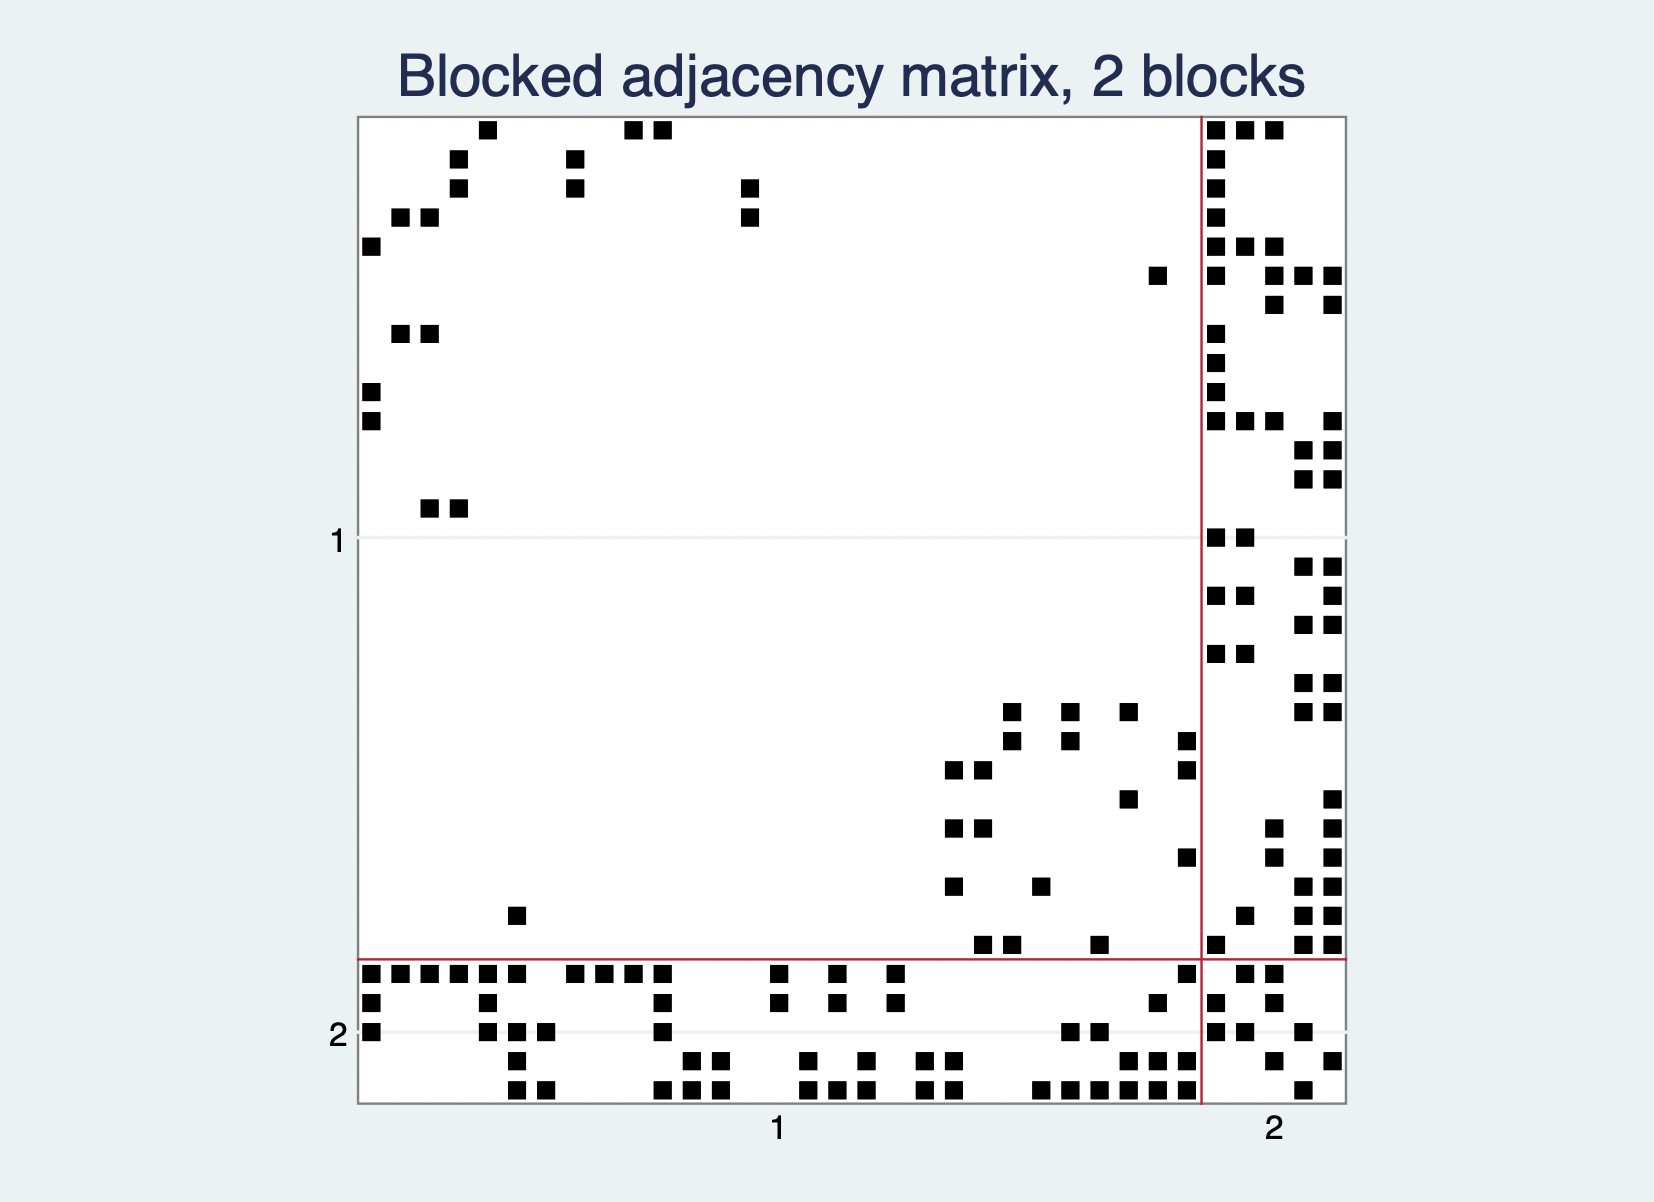
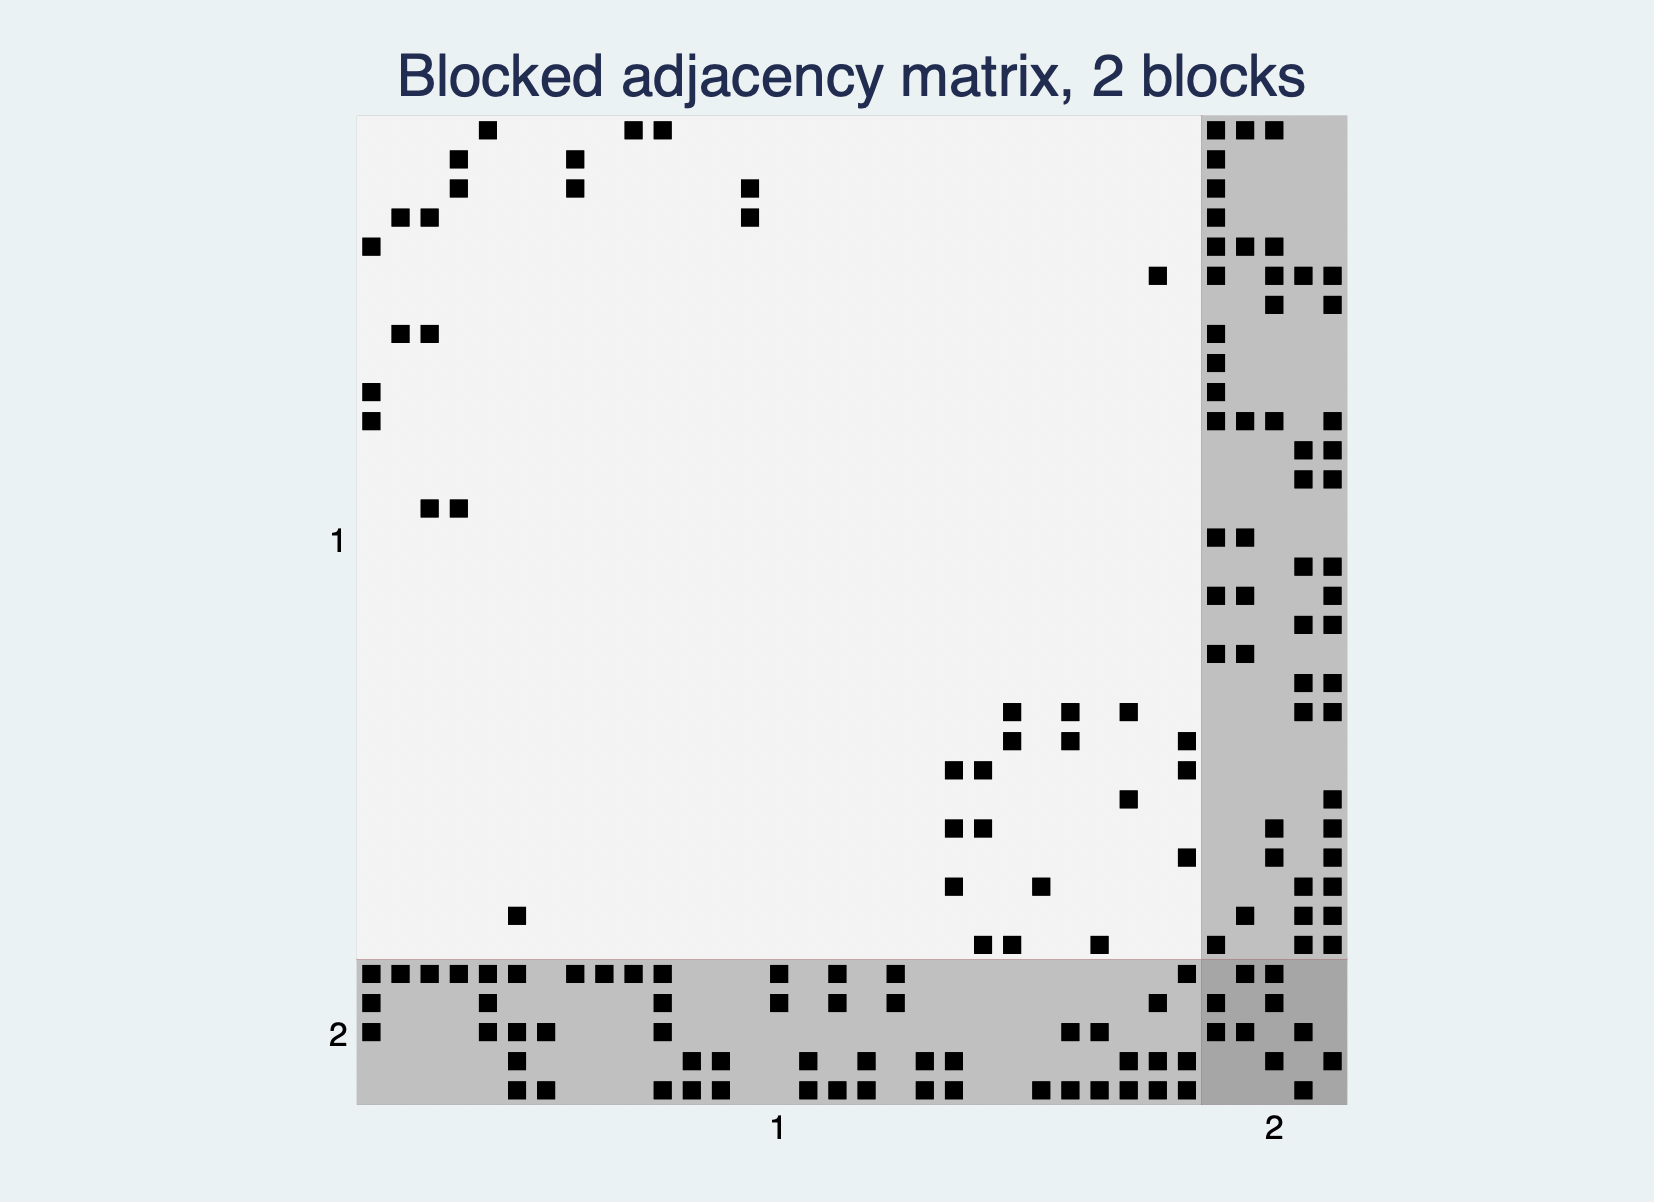
Website: nwsbm tutorials rerun with nwsbm 34634cd (shaded matrix plot in tutorial 1, two-mode estat icl header)

Changed region(s): [[0.2158, 0.0923, 0.8325, 0.9235]]

diff --git a/website/nwsbm/tutorial-1-first-sbm/index.md b/website/nwsbm/tutorial-1-first-sbm/index.md
@@ -101,12 +101,12 @@ core and a periphery and not two groups of friends: it is a statement about the 
 `nwsbmplot` draws pictures of the last fit. Every plot can be written to a file with `export()` (the format follows the extension: `.png`, `.pdf`, `.eps`); the pictures on this page were made that way.
 
 ```stata
-. nwsbmplot, type(matrix) export(nwsbm1_matrix.png)
+. nwsbmplot, type(matrix) shade export(nwsbm1_matrix.png)
 ```
 
 ![Blocked adjacency matrix of the karate club, two blocks](nwsbm1_matrix.png)
 
-The blocked adjacency matrix draws every tie as a black square, with the members ordered by their block: the 29 members of block 1 first (top rows, left columns), the 5 members of block 2 last, and red lines between the blocks. The square of block 1 with block 1 (top left) is mostly empty, with ties scattered here and there. The rows and columns of block 2 (the bottom strip and the right strip) are
+The blocked adjacency matrix draws every tie as a black square, with the members ordered by their block: the 29 members of block 1 first (top rows, left columns), the 5 members of block 2 last, and thin lines between the blocks. The option `shade` fills each block rectangle with a grey that follows the connectivity of that pair of blocks (four levels, relative to the largest entry of the connectivity matrix): the square of block 1 with block 1 (top left) is the lightest, the strips of block 2 with block 1 are mid grey and the small square of block 2 with block 2 (bottom right) is the darkest. The top-left square is mostly empty, with ties scattered here and there. The rows and columns of block 2 (the bottom strip and the right strip) are
 crowded with squares, and so is the small square where block 2 meets block 2 (bottom right). This is the pattern of the connectivity matrix above: a few ties inside the large block, many to and within the small one.
 
 ```stata
